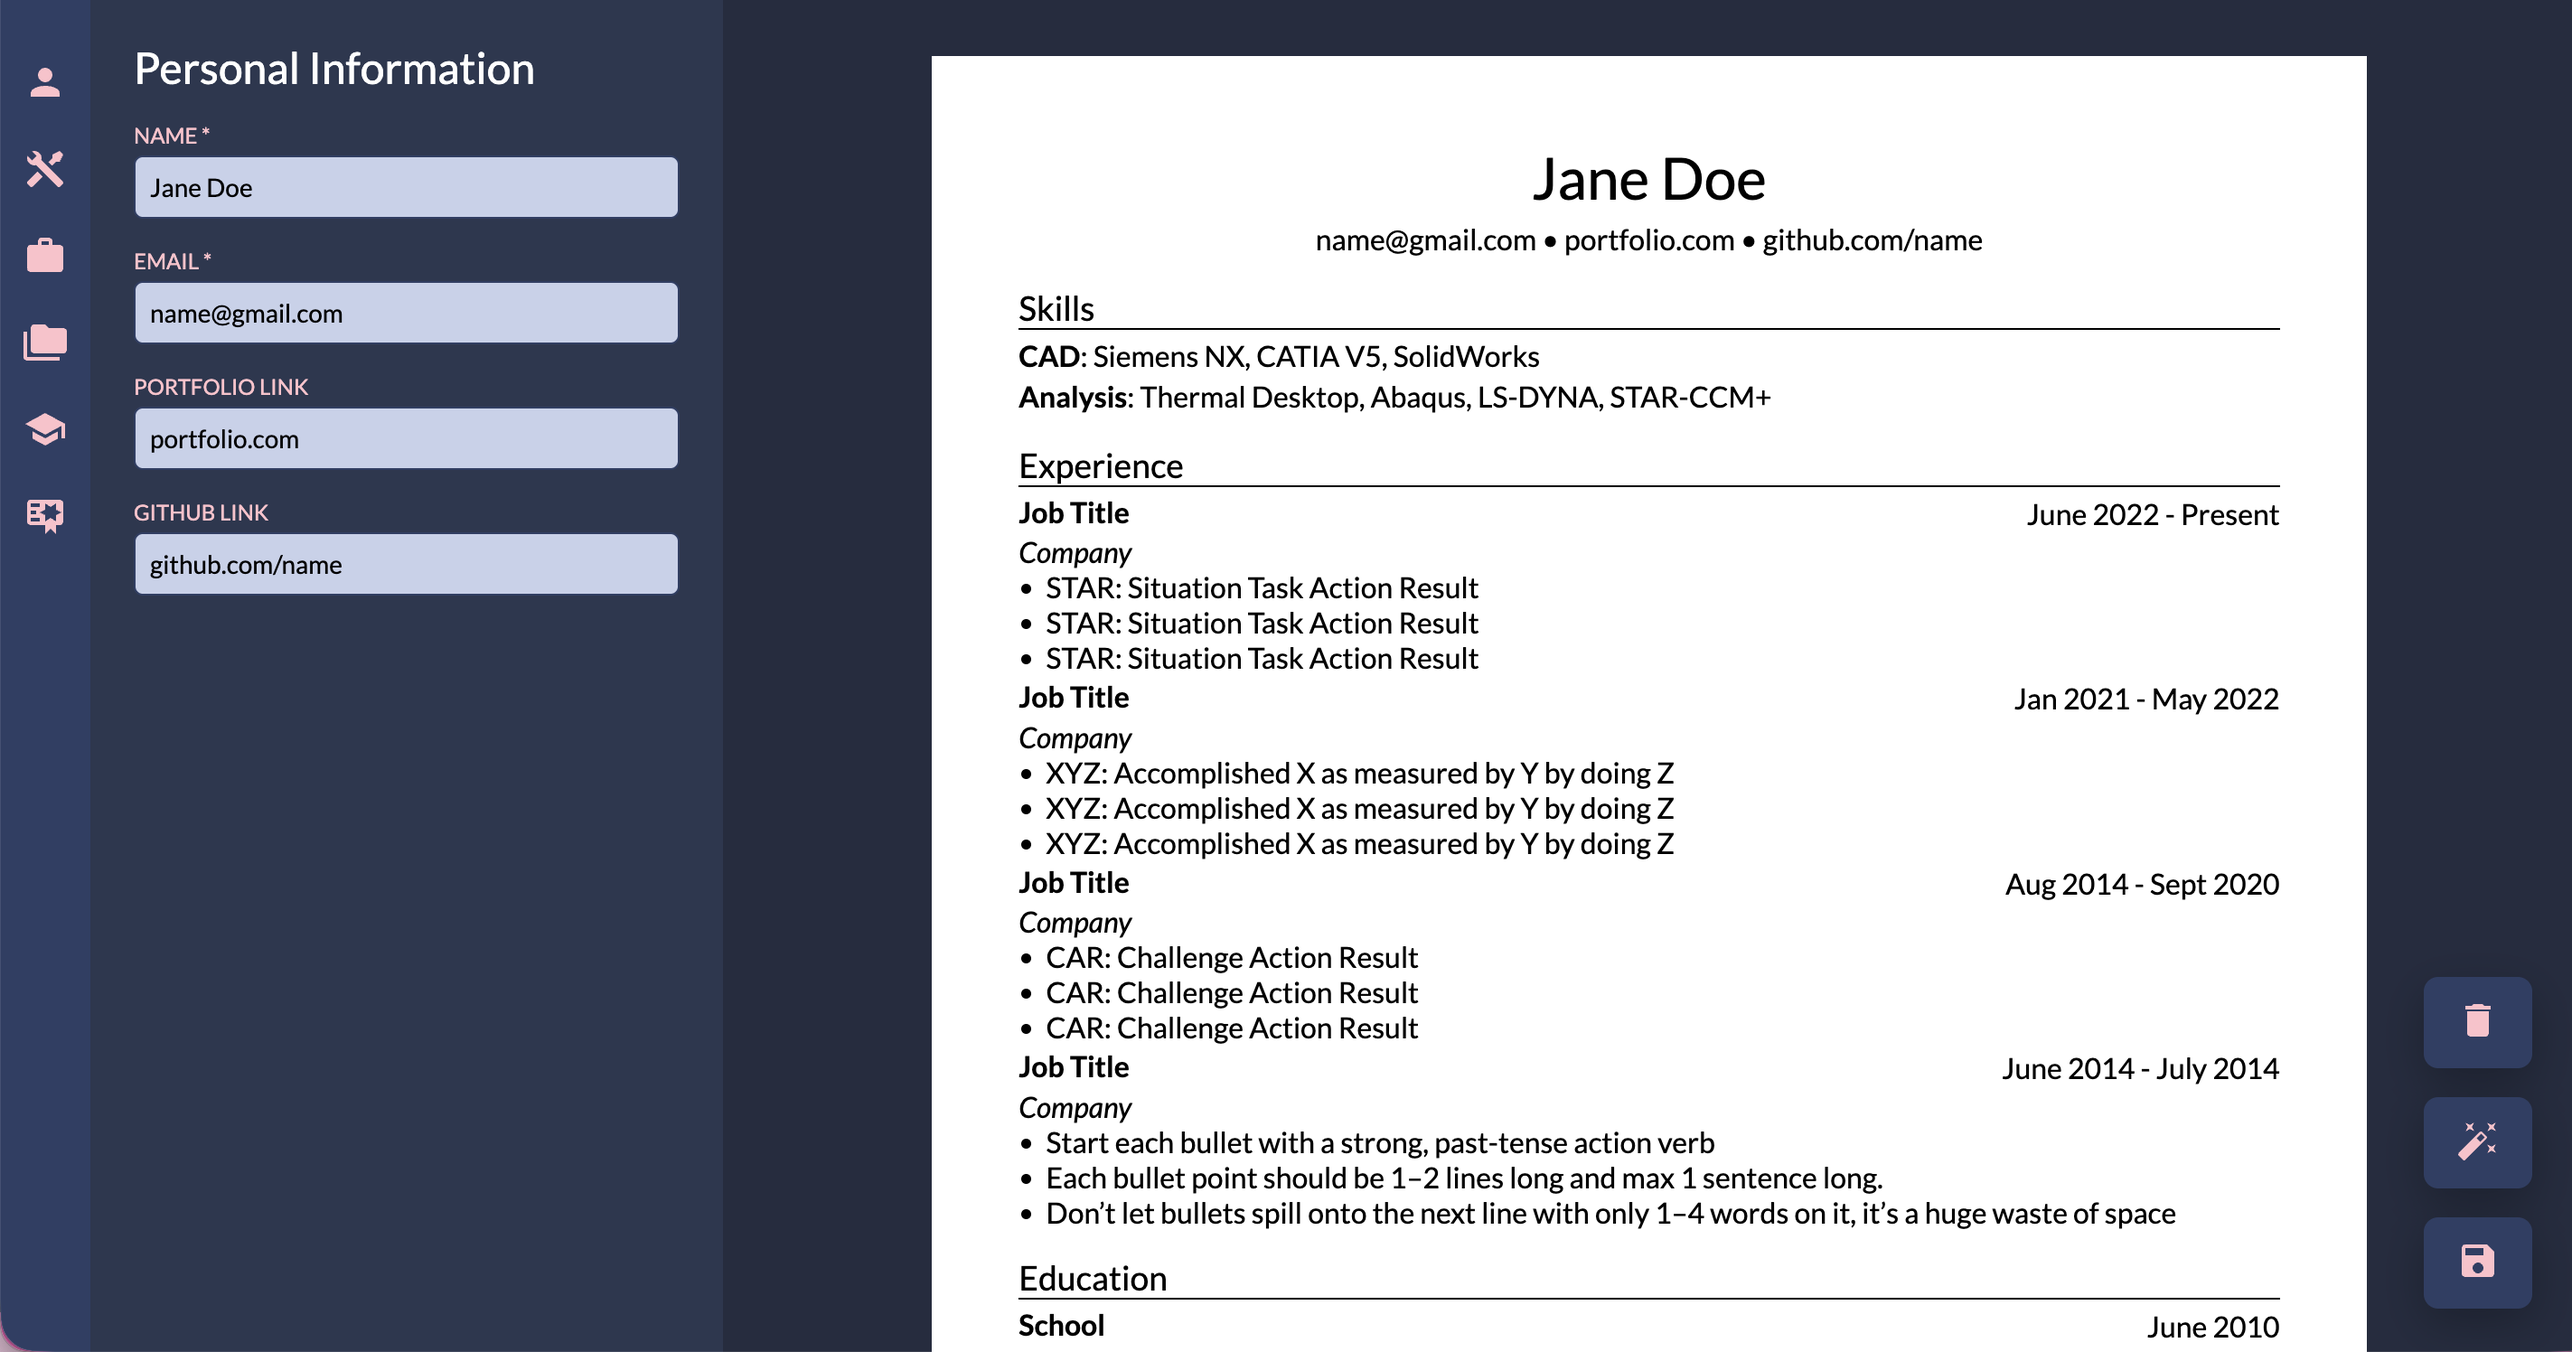
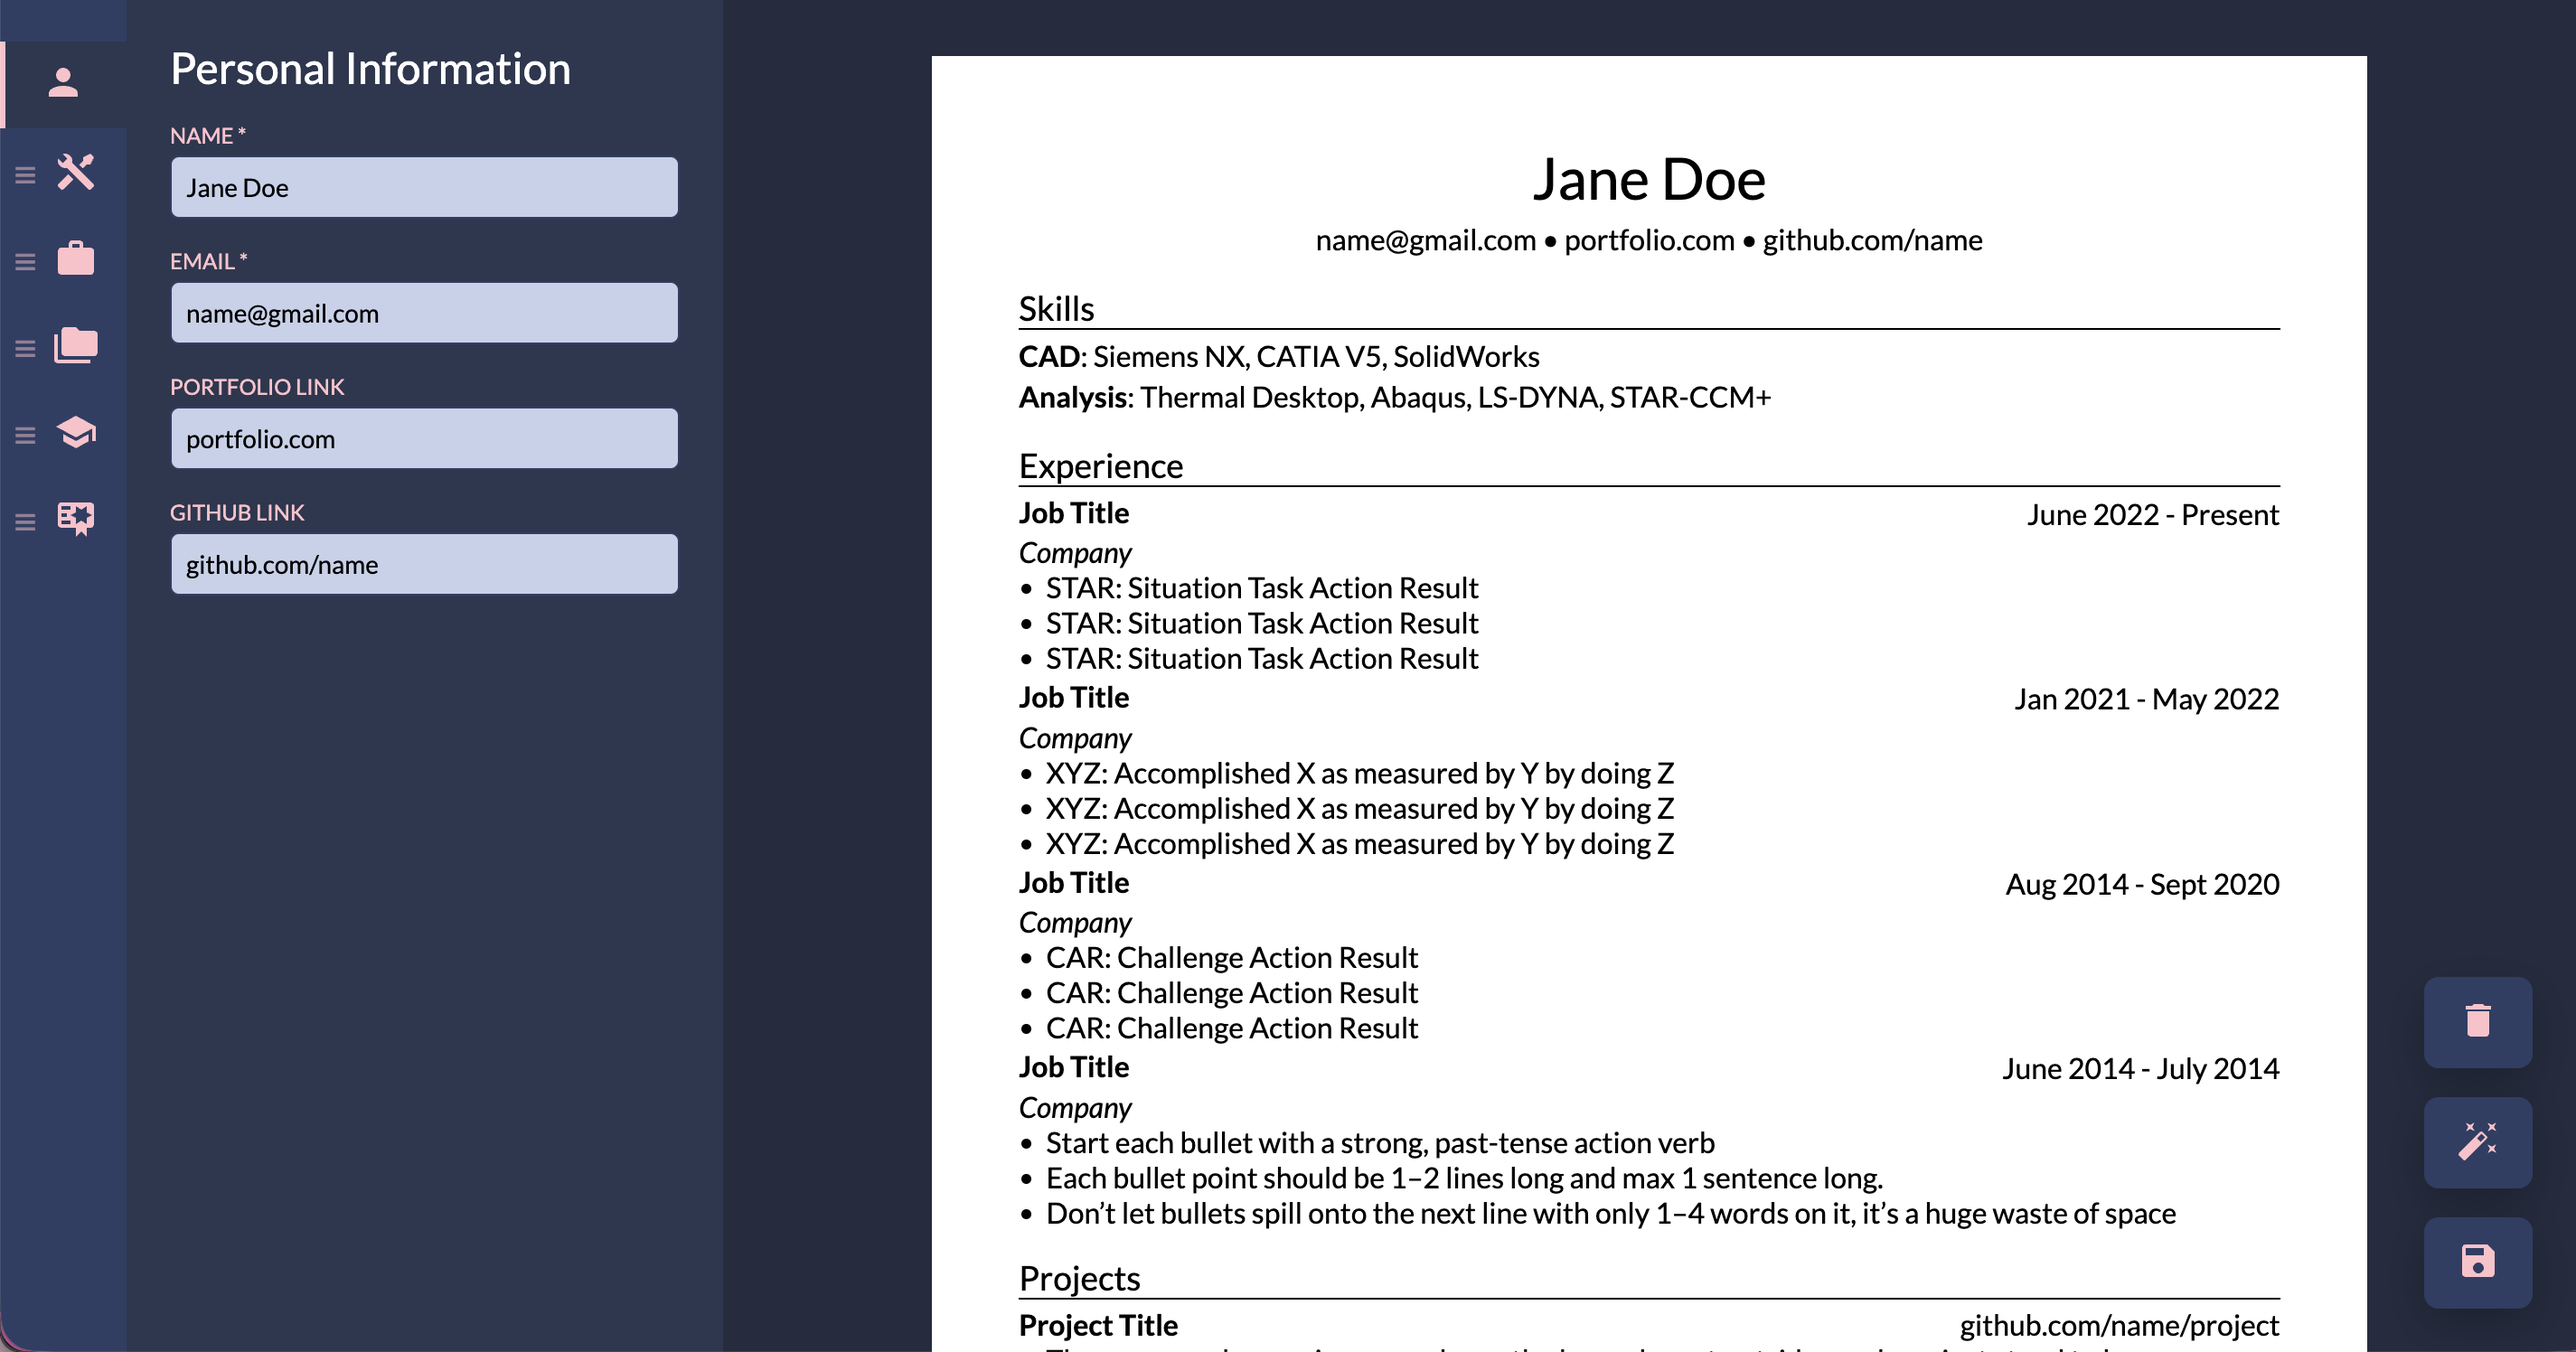
Update README and preview iamge

diff --git a/README.md b/README.md
@@ -23,15 +23,19 @@ Many engineers struggle with resumes not due to lack of experience, but because 
 
 The [r/EngineeringResumes](https://www.reddit.com/r/EngineeringResumes/wiki/index/) community consistently showcases real-world résumés that successfully land interviews. One widely shared and battle-tested [Overleaf template](https://www.overleaf.com/project/662939053eb1dc8f0f3c617f) became a strong reference for what _actually works_ in practice.
 
-This project translates that proven, no-nonsense résumé style into an **interactive web-based editor**, allowing users to:
+buildR. brings this proven, no-nonsense résumé style into an interactive, web-based editor, allowing users to:
 
 - Focus on content instead of layout
 - Maintain a strict, single-page A4 format
 - Export a print-ready PDF without manual tweaking
+- Reorder sections with drag-and-drop
+- Save progress locally for persistent editing
 
 ## Features
 
 - Section-based editor
+- Drag-and-drop ordering
 - Live preview
 - Strict A4 layout
 - Export to PDF
+- Local storage persistence
